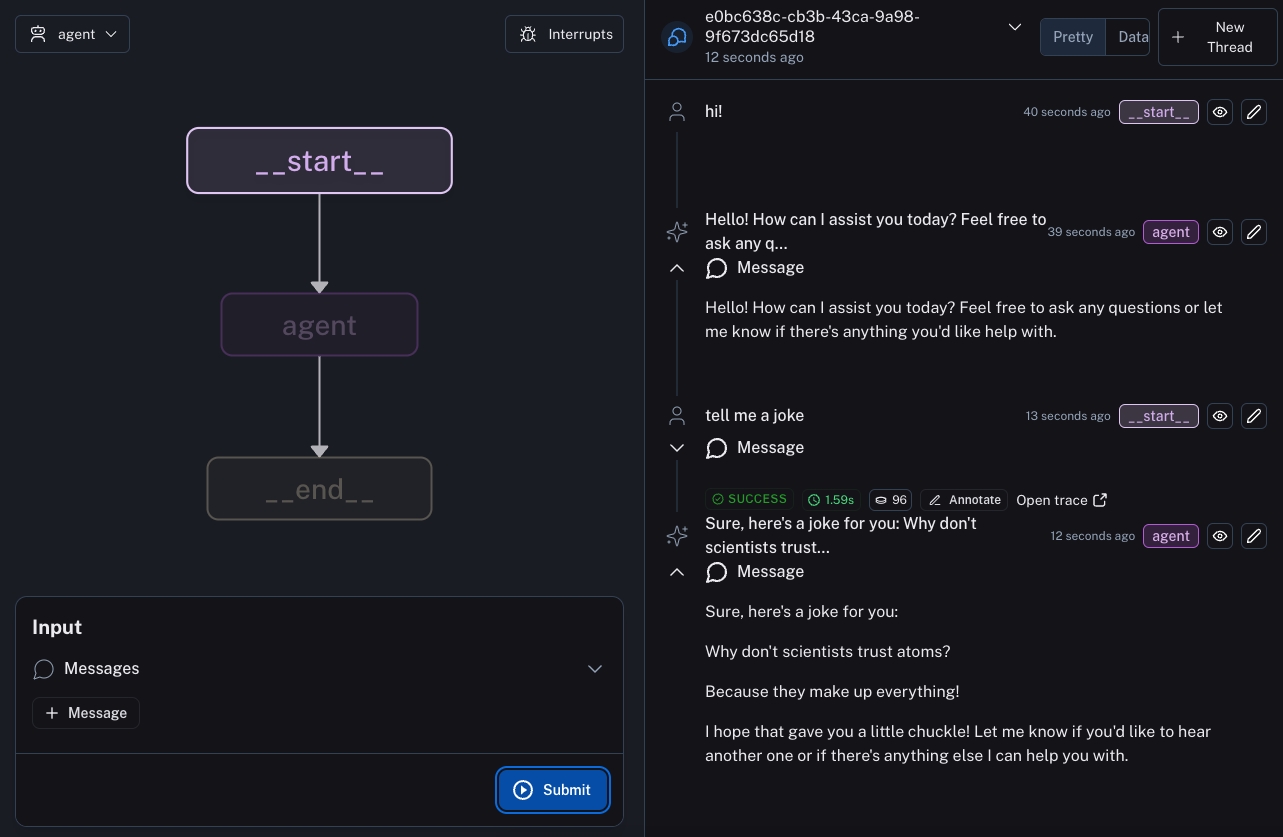
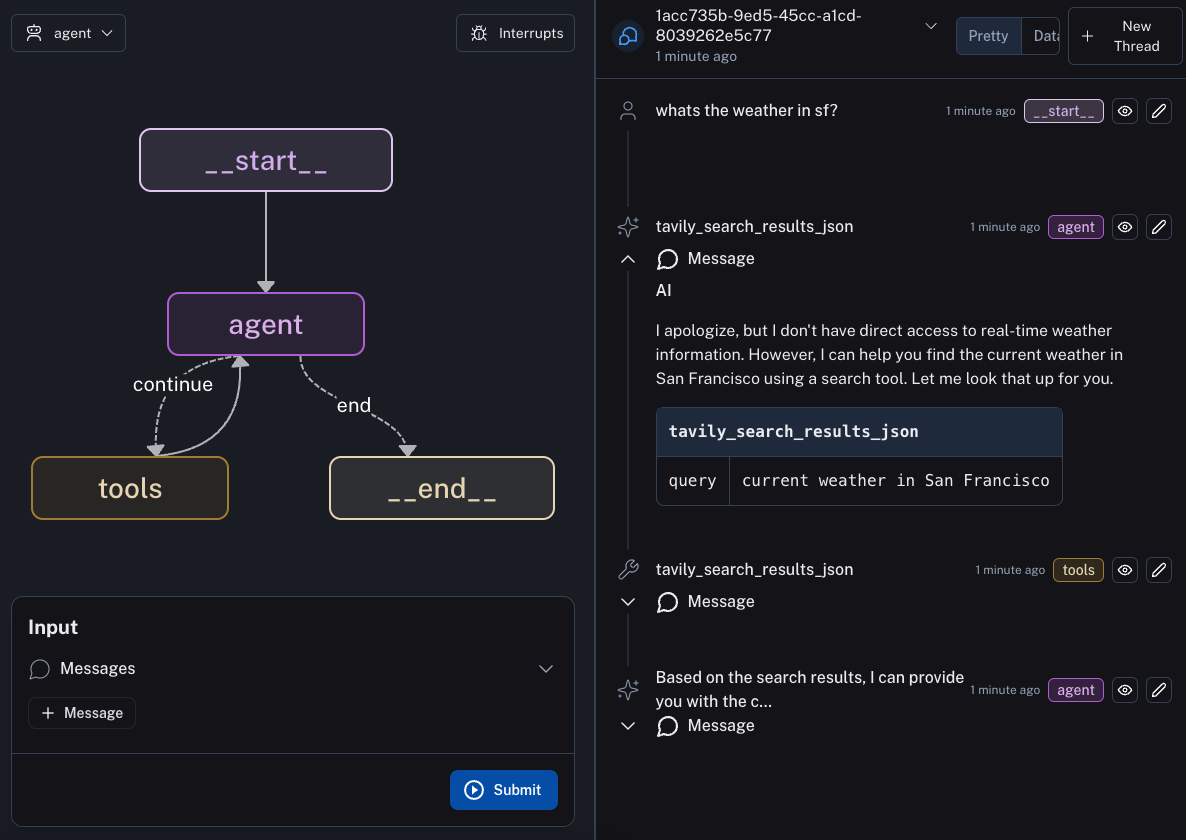
agent tutorial (#822)
* cr

* cr

* cr

* cr

* cr

diff --git a/docs/docs/cloud/quick_start.md b/docs/docs/cloud/quick_start.md
@@ -1,5 +1,13 @@
 # Quick Start
-This quick start guide will cover how to build a simple chatbot with LangGraph, deploy it to LangGraph Cloud, use the LangGraph Studio to visualize and test it out, and use the LangGraph Cloud SDK to interact with it.
+This quick start guide will cover how to build a simple agent that can look up things on the internet. We will then deploy it to LangGraph Cloud, use the LangGraph Studio to visualize and test it out, and use the LangGraph SDK to interact with it.
+
+## Set up requirements
+
+This tutorial will use:
+
+- Anthropic for the LLM - sign up and get an API key [here](https://console.anthropic.com/)
+- Tavily for the search engine - sign up and get an API key [here](https://app.tavily.com/)
+- LangSmith for hosting - sign up and get an API key [here](https://smith.langchain.com/)
 
 
 ## Set up local files
@@ -12,33 +20,26 @@ This quick start guide will cover how to build a simple chatbot with LangGraph, 
         |-- langgraph.json      # configuration file for LangGraph
         |-- .env                # environment files with API keys
 
-2. The `agent.py` file should contain Python code for defining your graph. The following code is a simple example, the important thing is that at some point in your file you compile your graph and assign the compiled graph to a variable (in this case the `graph` variable). 
+2. The `agent.py` file should contain Python code for defining your graph. The following code is a simple example, the important thing is that at some point in your file you compile your graph and assign the compiled graph to a variable (in this case the `graph` variable). This example code uses `create_react_agent`, a prebuilt agent, read more about it [here](..//concepts/agentic_concepts.md#react-agent).
 
     ```python
-    from langchain_anthropic import ChatAnthropic
-    from langgraph.graph import END, StateGraph, MessagesState
-    
-    model = ChatAnthropic(model="claude-3-5-sonnet-20240620")
-    
-    graph_workflow = StateGraph(MessagesState)
-    
-    
-    def agent(state: MessagesState):
-        response = model.invoke(state["messages"])
-        return {"messages": [response]}
-    
-    
-    graph_workflow.add_node(agent)
-    graph_workflow.add_edge("agent", END)
-    graph_workflow.set_entry_point("agent")
-    
-    graph = graph_workflow.compile()
+   from langchain_anthropic import ChatAnthropic
+   from langchain_community.tools.tavily_search import TavilySearchResults
+   from langgraph.prebuilt import create_react_agent
+   
+   model = ChatAnthropic(model="claude-3-5-sonnet-20240620")
+   
+   tools = [TavilySearchResults(max_results=2)]
+   
+   graph = create_react_agent(model, tools)
     ```
 
-3. The `requirements.txt` file should contain any dependencies for your graph(s). In this case we only require two packages for our graph to run:
+3. The `requirements.txt` file should contain any dependencies for your graph(s). In this case we only require four packages for our graph to run:
 
         langgraph
         langchain_anthropic
+        tavily-python
+        langchain_community
 
 4. The `langgraph.json` file is a configuration file that describes what graph(s) you are going to host. In this case we only have one graph to host: the compiled `graph` object from `agent.py`.
 
@@ -53,8 +54,67 @@ This quick start guide will cover how to build a simple chatbot with LangGraph, 
     ```
 
     Learn more about the LangGraph CLI configuration file [here](./reference/cli.md#configuration-file).
+5. The `.env` file should have any environment variables needed to run your graph. This will only be used for local testing, so if you are not testing locally you can skip this step. NOTE: if you do add this, you should NOT check this into git. For this graph, we need two environment variables:
+
+    ```shell
+    ANTHROPIC_API_KEY=...
+    TAVILY_API_KEY=...
+    ```
 
 Now that we have set everything up on our local file system, we are ready to host our graph. 
+
+## Test the graph build locally
+
+Before deploying to the cloud, we probably want to test the building of our graph locally. This is useful to make sure we have configured our CLI configuration file correctly and our graph runs.
+
+In order to do this we can first install the LangGraph CLI
+
+```shell
+pip install langgraph-cli
+```
+
+We can then stand up a simple test server. The server this stands up is INCREDIBLY simple - it is just a single endpoint and has no persistence. **This should not be used for hosting your application, only for testing the build and basic functionality.**
+
+```shell
+langgraph test
+```
+
+This will test building of the agent server. If this runs successfully, you should see something like:
+
+```shell
+Ready!
+- API: http://localhost:8123
+2024-06-26 19:20:41,056:INFO:uvicorn.access 127.0.0.1:44138 - "GET /ok HTTP/1.1" 200
+```
+
+You can now test this out! Again, we only expose a single simple endpoint (for streaming stateless runs). This is intended to allow you to test that the agent is properly set up, but should **NOT** but used for production purposes. To test it out, you can go to another terminal window and run:
+
+```shell
+curl --request POST \
+    --url http://localhost:8123/runs/stream \
+    --header 'Content-Type: application/json' \
+    --data '{
+    "assistant_id": "agent",
+    "input": {
+        "messages": [
+            {
+                "role": "user",
+                "content": "How are you?"
+            }
+        ]
+    },
+    "metadata": {},
+    "config": {
+        "configurable": {}
+    },
+    "multitask_strategy": "reject",
+    "stream_mode": [
+        "values"
+    ]
+}'
+```
+
+If you get back a valid response, then all is functioning properly!
 
 ## Deploy to Cloud
 
@@ -79,9 +139,9 @@ To deploy your application, you should do the following:
 1. Select your GitHub username or organization from the selector
 2. Search for your repo to deploy in the search bar and select it
 3. Choose any name
-4. In the `LangGraph API config file` field, enter the path to your `langgraph.json` file (if left blank langsmith will automatically search for it on deployment)
+4. In the `LangGraph API config file` field, enter the path to your `langgraph.json` file (which in this case is just `langgraph.json`)
 5. For Git Reference, you can select either the git branch for the code you want to deploy, or the exact commit SHA. 
-6. If your chain relies on environment variables (for example, an OPENAI_API_KEY), add those in. They will be propagated to the underlying server so your code can access them.
+6. If your chain relies on environment variables, add those in. They will be propagated to the underlying server so your code can access them. In this case, we need `ANTHROPIC_API_KEY` and `TAVILY_API_KEY`.
 
 Putting this all together, you should have something as follows for your deployment details:
 
@@ -107,7 +167,7 @@ You can access the docs by clicking on the API docs link, which should send you 
 
 ![API Docs page](./deployment/img/api_page.png)
 
-You won’t actually be able to test any of the API endpoints without authorizing first. To do so, click on the Authorize button in the top right corner, input your `LANGCHAIN_API_KEY`  in the `API Key` box, and then click `Authorize` to finish the process. You should now be able to select any of the API endpoints, click `Try it out`, enter the parameters you would like to pass, and then click `Execute` to view the results of the API call.
+You won’t actually be able to test any of the API endpoints without authorizing first. To do so, grab your Langsmith API key and add it at the top where it says `API KEY (X-API-KEY)`. You should now be able to select any of the API endpoints, click `Test Request`, enter the parameters you would like to pass, and then click `Send` to view the results of the API call.
 
 ## Interact with your deployment via LangGraph Studio
 
